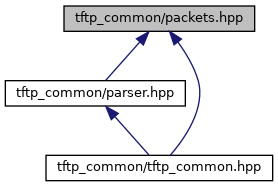
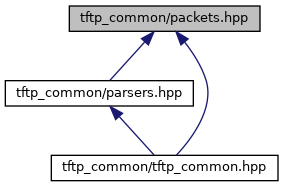
Deploying to gh-pages from @ eoan-ermine/tftp_common@78b0e7c04684e2b29322a0cdcc1f41761ce4d9c7 🚀

diff --git a/packets_8hpp_source.html b/packets_8hpp_source.html
@@ -332,7 +332,7 @@ $(function() {
 <div class="line"><a name="l00305"></a><span class="lineno">  305</span>&#160; </div>
 <div class="line"><a name="l00306"></a><span class="lineno">  306</span>&#160;} <span class="comment">// namespace tftp_common::packets</span></div>
 <div class="ttc" id="aclasstftp__common_1_1packets_1_1Acknowledgment_html"><div class="ttname"><a href="classtftp__common_1_1packets_1_1Acknowledgment.html">tftp_common::packets::Acknowledgment</a></div><div class="ttdoc">Acknowledgment Trivial File Transfer Protocol packet.</div><div class="ttdef"><b>Definition:</b> packets.hpp:178</div></div>
-<div class="ttc" id="aclasstftp__common_1_1packets_1_1Acknowledgment_html_a0fd92310212b34655f177a19877a01e4"><div class="ttname"><a href="classtftp__common_1_1packets_1_1Acknowledgment.html#a0fd92310212b34655f177a19877a01e4">tftp_common::packets::Acknowledgment::parse</a></div><div class="ttdeci">friend ParseResult parse(const std::uint8_t *Buffer, std::size_t Len, Acknowledgment &amp;Packet)</div><div class="ttdef"><b>Definition:</b> parser.hpp:155</div></div>
+<div class="ttc" id="aclasstftp__common_1_1packets_1_1Acknowledgment_html_a0fd92310212b34655f177a19877a01e4"><div class="ttname"><a href="classtftp__common_1_1packets_1_1Acknowledgment.html#a0fd92310212b34655f177a19877a01e4">tftp_common::packets::Acknowledgment::parse</a></div><div class="ttdeci">friend ParseResult parse(const std::uint8_t *Buffer, std::size_t Len, Acknowledgment &amp;Packet)</div><div class="ttdef"><b>Definition:</b> parsers.hpp:155</div></div>
 <div class="ttc" id="aclasstftp__common_1_1packets_1_1Acknowledgment_html_a36230b20c043663a6faa779c1a08565e"><div class="ttname"><a href="classtftp__common_1_1packets_1_1Acknowledgment.html#a36230b20c043663a6faa779c1a08565e">tftp_common::packets::Acknowledgment::getType</a></div><div class="ttdeci">std::uint16_t getType() const noexcept</div><div class="ttdef"><b>Definition:</b> packets.hpp:188</div></div>
 <div class="ttc" id="aclasstftp__common_1_1packets_1_1Acknowledgment_html_a73799540964e4b609154453d89befe77"><div class="ttname"><a href="classtftp__common_1_1packets_1_1Acknowledgment.html#a73799540964e4b609154453d89befe77">tftp_common::packets::Acknowledgment::serialize</a></div><div class="ttdeci">std::size_t serialize(OutputIterator It) const noexcept</div><div class="ttdef"><b>Definition:</b> packets.hpp:195</div></div>
 <div class="ttc" id="aclasstftp__common_1_1packets_1_1Acknowledgment_html_a75fca051298c36ab5eab7920e358036c"><div class="ttname"><a href="classtftp__common_1_1packets_1_1Acknowledgment.html#a75fca051298c36ab5eab7920e358036c">tftp_common::packets::Acknowledgment::Acknowledgment</a></div><div class="ttdeci">Acknowledgment()=default</div><div class="ttdoc">Use with parsing functions only.</div></div>
@@ -345,20 +345,20 @@ $(function() {
 <div class="ttc" id="aclasstftp__common_1_1packets_1_1Data_html_a8af582900335b6ea2136dc8b08df0968"><div class="ttname"><a href="classtftp__common_1_1packets_1_1Data.html#a8af582900335b6ea2136dc8b08df0968">tftp_common::packets::Data::serialize</a></div><div class="ttdeci">std::size_t serialize(OutputIterator It) const noexcept</div><div class="ttdef"><b>Definition:</b> packets.hpp:151</div></div>
 <div class="ttc" id="aclasstftp__common_1_1packets_1_1Data_html_a8f45d8e97f3aa27b5121382ac5155d11"><div class="ttname"><a href="classtftp__common_1_1packets_1_1Data.html#a8f45d8e97f3aa27b5121382ac5155d11">tftp_common::packets::Data::getType</a></div><div class="ttdeci">std::uint16_t getType() const noexcept</div><div class="ttdef"><b>Definition:</b> packets.hpp:163</div></div>
 <div class="ttc" id="aclasstftp__common_1_1packets_1_1Data_html_aee1cb9502fa13dfbd7888c98f6a7aaa7"><div class="ttname"><a href="classtftp__common_1_1packets_1_1Data.html#aee1cb9502fa13dfbd7888c98f6a7aaa7">tftp_common::packets::Data::getData</a></div><div class="ttdeci">const std::vector&lt; std::uint8_t &gt; &amp; getData() const noexcept</div><div class="ttdef"><b>Definition:</b> packets.hpp:167</div></div>
-<div class="ttc" id="aclasstftp__common_1_1packets_1_1Data_html_af4d8e374c13c2b90735fc0d920432a50"><div class="ttname"><a href="classtftp__common_1_1packets_1_1Data.html#af4d8e374c13c2b90735fc0d920432a50">tftp_common::packets::Data::parse</a></div><div class="ttdeci">friend ParseResult parse(const std::uint8_t *Buffer, std::size_t Len, Data &amp;Packet)</div><div class="ttdef"><b>Definition:</b> parser.hpp:100</div></div>
+<div class="ttc" id="aclasstftp__common_1_1packets_1_1Data_html_af4d8e374c13c2b90735fc0d920432a50"><div class="ttname"><a href="classtftp__common_1_1packets_1_1Data.html#af4d8e374c13c2b90735fc0d920432a50">tftp_common::packets::Data::parse</a></div><div class="ttdeci">friend ParseResult parse(const std::uint8_t *Buffer, std::size_t Len, Data &amp;Packet)</div><div class="ttdef"><b>Definition:</b> parsers.hpp:100</div></div>
 <div class="ttc" id="aclasstftp__common_1_1packets_1_1Data_html_afe9284164325798745c8b72bcb84d176"><div class="ttname"><a href="classtftp__common_1_1packets_1_1Data.html#afe9284164325798745c8b72bcb84d176">tftp_common::packets::Data::getBlock</a></div><div class="ttdeci">std::uint16_t getBlock() const noexcept</div><div class="ttdef"><b>Definition:</b> packets.hpp:165</div></div>
 <div class="ttc" id="aclasstftp__common_1_1packets_1_1Error_html"><div class="ttname"><a href="classtftp__common_1_1packets_1_1Error.html">tftp_common::packets::Error</a></div><div class="ttdoc">Error Trivial File Transfer Protocol packet.</div><div class="ttdef"><b>Definition:</b> packets.hpp:212</div></div>
 <div class="ttc" id="aclasstftp__common_1_1packets_1_1Error_html_a10c5ab22536611a6acb382af7011e5f5"><div class="ttname"><a href="classtftp__common_1_1packets_1_1Error.html#a10c5ab22536611a6acb382af7011e5f5">tftp_common::packets::Error::Error</a></div><div class="ttdeci">Error(std::uint16_t ErrorCode, std::string &amp;&amp;ErrorMessage)</div><div class="ttdef"><b>Definition:</b> packets.hpp:221</div></div>
 <div class="ttc" id="aclasstftp__common_1_1packets_1_1Error_html_a13cbb66278877110ebec2060c9b404b9"><div class="ttname"><a href="classtftp__common_1_1packets_1_1Error.html#a13cbb66278877110ebec2060c9b404b9">tftp_common::packets::Error::getErrorMessage</a></div><div class="ttdeci">std::string_view getErrorMessage() const noexcept</div><div class="ttdef"><b>Definition:</b> packets.hpp:230</div></div>
 <div class="ttc" id="aclasstftp__common_1_1packets_1_1Error_html_a2685de06d13b95c4f8869df40fa134b8"><div class="ttname"><a href="classtftp__common_1_1packets_1_1Error.html#a2685de06d13b95c4f8869df40fa134b8">tftp_common::packets::Error::Error</a></div><div class="ttdeci">Error()=default</div><div class="ttdoc">Use with parsing functions only.</div></div>
 <div class="ttc" id="aclasstftp__common_1_1packets_1_1Error_html_a31581a85502e78d503f2adcf98b46a14"><div class="ttname"><a href="classtftp__common_1_1packets_1_1Error.html#a31581a85502e78d503f2adcf98b46a14">tftp_common::packets::Error::getErrorCode</a></div><div class="ttdeci">std::uint16_t getErrorCode() const noexcept</div><div class="ttdef"><b>Definition:</b> packets.hpp:228</div></div>
-<div class="ttc" id="aclasstftp__common_1_1packets_1_1Error_html_a354d8c576057088c706a2486556f79ad"><div class="ttname"><a href="classtftp__common_1_1packets_1_1Error.html#a354d8c576057088c706a2486556f79ad">tftp_common::packets::Error::parse</a></div><div class="ttdeci">friend ParseResult parse(const std::uint8_t *Buffer, std::size_t Len, Error &amp;Packet)</div><div class="ttdef"><b>Definition:</b> parser.hpp:200</div></div>
+<div class="ttc" id="aclasstftp__common_1_1packets_1_1Error_html_a354d8c576057088c706a2486556f79ad"><div class="ttname"><a href="classtftp__common_1_1packets_1_1Error.html#a354d8c576057088c706a2486556f79ad">tftp_common::packets::Error::parse</a></div><div class="ttdeci">friend ParseResult parse(const std::uint8_t *Buffer, std::size_t Len, Error &amp;Packet)</div><div class="ttdef"><b>Definition:</b> parsers.hpp:200</div></div>
 <div class="ttc" id="aclasstftp__common_1_1packets_1_1Error_html_a5ffe4315cc1e5c3c4444fd30f0566b17"><div class="ttname"><a href="classtftp__common_1_1packets_1_1Error.html#a5ffe4315cc1e5c3c4444fd30f0566b17">tftp_common::packets::Error::getType</a></div><div class="ttdeci">std::uint16_t getType() const noexcept</div><div class="ttdef"><b>Definition:</b> packets.hpp:226</div></div>
 <div class="ttc" id="aclasstftp__common_1_1packets_1_1Error_html_af7199b14546117025789a1d5b3b65f81"><div class="ttname"><a href="classtftp__common_1_1packets_1_1Error.html#af7199b14546117025789a1d5b3b65f81">tftp_common::packets::Error::serialize</a></div><div class="ttdeci">std::size_t serialize(OutputIterator It) const noexcept</div><div class="ttdef"><b>Definition:</b> packets.hpp:237</div></div>
 <div class="ttc" id="aclasstftp__common_1_1packets_1_1Error_html_af99e92e8f7a8665d3e6124cccb57fcab"><div class="ttname"><a href="classtftp__common_1_1packets_1_1Error.html#af99e92e8f7a8665d3e6124cccb57fcab">tftp_common::packets::Error::Error</a></div><div class="ttdeci">Error(std::uint16_t ErrorCode, std::string_view ErrorMessage)</div><div class="ttdef"><b>Definition:</b> packets.hpp:217</div></div>
 <div class="ttc" id="aclasstftp__common_1_1packets_1_1OptionAcknowledgment_html"><div class="ttname"><a href="classtftp__common_1_1packets_1_1OptionAcknowledgment.html">tftp_common::packets::OptionAcknowledgment</a></div><div class="ttdoc">Option Acknowledgment Trivial File Transfer Protocol packet.</div><div class="ttdef"><b>Definition:</b> packets.hpp:260</div></div>
 <div class="ttc" id="aclasstftp__common_1_1packets_1_1OptionAcknowledgment_html_a1aa77681a1824f06df28ebf135fd0961"><div class="ttname"><a href="classtftp__common_1_1packets_1_1OptionAcknowledgment.html#a1aa77681a1824f06df28ebf135fd0961">tftp_common::packets::OptionAcknowledgment::getType</a></div><div class="ttdeci">std::uint16_t getType() const noexcept</div><div class="ttdef"><b>Definition:</b> packets.hpp:289</div></div>
-<div class="ttc" id="aclasstftp__common_1_1packets_1_1OptionAcknowledgment_html_a4b667b9f50ad595534e589cd0cdd3943"><div class="ttname"><a href="classtftp__common_1_1packets_1_1OptionAcknowledgment.html#a4b667b9f50ad595534e589cd0cdd3943">tftp_common::packets::OptionAcknowledgment::parse</a></div><div class="ttdeci">friend ParseResult parse(const std::uint8_t *Buffer, std::size_t Len, OptionAcknowledgment &amp;Packet)</div><div class="ttdef"><b>Definition:</b> parser.hpp:254</div></div>
+<div class="ttc" id="aclasstftp__common_1_1packets_1_1OptionAcknowledgment_html_a4b667b9f50ad595534e589cd0cdd3943"><div class="ttname"><a href="classtftp__common_1_1packets_1_1OptionAcknowledgment.html#a4b667b9f50ad595534e589cd0cdd3943">tftp_common::packets::OptionAcknowledgment::parse</a></div><div class="ttdeci">friend ParseResult parse(const std::uint8_t *Buffer, std::size_t Len, OptionAcknowledgment &amp;Packet)</div><div class="ttdef"><b>Definition:</b> parsers.hpp:254</div></div>
 <div class="ttc" id="aclasstftp__common_1_1packets_1_1OptionAcknowledgment_html_a4fe95a362893ae744e6d47975d3a1ac2"><div class="ttname"><a href="classtftp__common_1_1packets_1_1OptionAcknowledgment.html#a4fe95a362893ae744e6d47975d3a1ac2">tftp_common::packets::OptionAcknowledgment::getOptions</a></div><div class="ttdeci">const std::unordered_map&lt; std::string, std::string &gt; &amp; getOptions() const noexcept</div><div class="ttdoc">Get all options.</div><div class="ttdef"><b>Definition:</b> packets.hpp:292</div></div>
 <div class="ttc" id="aclasstftp__common_1_1packets_1_1OptionAcknowledgment_html_a5618a414ed2c85fb0dde38234c5df26b"><div class="ttname"><a href="classtftp__common_1_1packets_1_1OptionAcknowledgment.html#a5618a414ed2c85fb0dde38234c5df26b">tftp_common::packets::OptionAcknowledgment::OptionAcknowledgment</a></div><div class="ttdeci">OptionAcknowledgment(std::unordered_map&lt; std::string, std::string &gt; Options)</div><div class="ttdef"><b>Definition:</b> packets.hpp:264</div></div>
 <div class="ttc" id="aclasstftp__common_1_1packets_1_1OptionAcknowledgment_html_a828ac44c556231a470c0758021522b7a"><div class="ttname"><a href="classtftp__common_1_1packets_1_1OptionAcknowledgment.html#a828ac44c556231a470c0758021522b7a">tftp_common::packets::OptionAcknowledgment::OptionAcknowledgment</a></div><div class="ttdeci">OptionAcknowledgment()=default</div><div class="ttdoc">Use with parsing functions only.</div></div>
@@ -374,7 +374,7 @@ $(function() {
 <div class="ttc" id="aclasstftp__common_1_1packets_1_1Request_html_a8dc8830bb91a6870f4fe17993c9a32b9"><div class="ttname"><a href="classtftp__common_1_1packets_1_1Request.html#a8dc8830bb91a6870f4fe17993c9a32b9">tftp_common::packets::Request::Request</a></div><div class="ttdeci">Request(Type Type, std::string &amp;&amp;Filename, std::string &amp;&amp;Mode) noexcept</div><div class="ttdef"><b>Definition:</b> packets.hpp:46</div></div>
 <div class="ttc" id="aclasstftp__common_1_1packets_1_1Request_html_a9680700170f595256ce942e8380afaff"><div class="ttname"><a href="classtftp__common_1_1packets_1_1Request.html#a9680700170f595256ce942e8380afaff">tftp_common::packets::Request::Request</a></div><div class="ttdeci">Request()=default</div><div class="ttdoc">Use with parsing functions only.</div></div>
 <div class="ttc" id="aclasstftp__common_1_1packets_1_1Request_html_a9988577a032e5e32b0e8e7e4a3dd90be"><div class="ttname"><a href="classtftp__common_1_1packets_1_1Request.html#a9988577a032e5e32b0e8e7e4a3dd90be">tftp_common::packets::Request::getFilename</a></div><div class="ttdeci">std::string_view getFilename() const noexcept</div><div class="ttdef"><b>Definition:</b> packets.hpp:102</div></div>
-<div class="ttc" id="aclasstftp__common_1_1packets_1_1Request_html_ac6091444a537edd2f650143c8e656483"><div class="ttname"><a href="classtftp__common_1_1packets_1_1Request.html#ac6091444a537edd2f650143c8e656483">tftp_common::packets::Request::parse</a></div><div class="ttdeci">friend ParseResult parse(const std::uint8_t *Buffer, std::size_t Len, Request &amp;Packet)</div><div class="ttdef"><b>Definition:</b> parser.hpp:19</div></div>
+<div class="ttc" id="aclasstftp__common_1_1packets_1_1Request_html_ac6091444a537edd2f650143c8e656483"><div class="ttname"><a href="classtftp__common_1_1packets_1_1Request.html#ac6091444a537edd2f650143c8e656483">tftp_common::packets::Request::parse</a></div><div class="ttdeci">friend ParseResult parse(const std::uint8_t *Buffer, std::size_t Len, Request &amp;Packet)</div><div class="ttdef"><b>Definition:</b> parsers.hpp:19</div></div>
 <div class="ttc" id="aclasstftp__common_1_1packets_1_1Request_html_acf78da65a1f87c33db05dbfa02b133cc"><div class="ttname"><a href="classtftp__common_1_1packets_1_1Request.html#acf78da65a1f87c33db05dbfa02b133cc">tftp_common::packets::Request::getMode</a></div><div class="ttdeci">std::string_view getMode() const noexcept</div><div class="ttdef"><b>Definition:</b> packets.hpp:104</div></div>
 <div class="ttc" id="aclasstftp__common_1_1packets_1_1Request_html_afe5ea42c1da395423367c1b31271a1db"><div class="ttname"><a href="classtftp__common_1_1packets_1_1Request.html#afe5ea42c1da395423367c1b31271a1db">tftp_common::packets::Request::getType</a></div><div class="ttdeci">std::uint16_t getType() const noexcept</div><div class="ttdef"><b>Definition:</b> packets.hpp:100</div></div>
 <div class="ttc" id="anamespacetftp__common_1_1packets_html"><div class="ttname"><a href="namespacetftp__common_1_1packets.html">tftp_common::packets</a></div><div class="ttdef"><b>Definition:</b> packets.hpp:16</div></div>
@@ -385,7 +385,7 @@ $(function() {
 <div class="ttc" id="anamespacetftp__common_1_1packets_html_a2b58b8a0fcf82f3a4c69feb5078fea4aabdff55c238fc75b9a540daa002f607ef"><div class="ttname"><a href="namespacetftp__common_1_1packets.html#a2b58b8a0fcf82f3a4c69feb5078fea4aabdff55c238fc75b9a540daa002f607ef">tftp_common::packets::AcknowledgmentPacket</a></div><div class="ttdeci">@ AcknowledgmentPacket</div><div class="ttdoc">Acknowledgment (ACK) operation code.</div><div class="ttdef"><b>Definition:</b> packets.hpp:29</div></div>
 <div class="ttc" id="anamespacetftp__common_1_1packets_html_a2b58b8a0fcf82f3a4c69feb5078fea4aaf3a9a61532c0ad253021dc3b7ec4a311"><div class="ttname"><a href="namespacetftp__common_1_1packets.html#a2b58b8a0fcf82f3a4c69feb5078fea4aaf3a9a61532c0ad253021dc3b7ec4a311">tftp_common::packets::DataPacket</a></div><div class="ttdeci">@ DataPacket</div><div class="ttdoc">Data (DATA) operation code.</div><div class="ttdef"><b>Definition:</b> packets.hpp:27</div></div>
 <div class="ttc" id="anamespacetftp__common_1_1packets_html_a2b58b8a0fcf82f3a4c69feb5078fea4aaf8e8023e4d99c777598afbac87ee3de6"><div class="ttname"><a href="namespacetftp__common_1_1packets.html#a2b58b8a0fcf82f3a4c69feb5078fea4aaf8e8023e4d99c777598afbac87ee3de6">tftp_common::packets::WriteRequest</a></div><div class="ttdeci">@ WriteRequest</div><div class="ttdoc">Write request (WRQ) operation code.</div><div class="ttdef"><b>Definition:</b> packets.hpp:25</div></div>
-<div class="ttc" id="astructtftp__common_1_1packets_1_1ParseResult_html"><div class="ttname"><a href="structtftp__common_1_1packets_1_1ParseResult.html">tftp_common::packets::ParseResult</a></div><div class="ttdoc">The result of parsing a single packet.</div><div class="ttdef"><b>Definition:</b> parser.hpp:8</div></div>
+<div class="ttc" id="astructtftp__common_1_1packets_1_1ParseResult_html"><div class="ttname"><a href="structtftp__common_1_1packets_1_1ParseResult.html">tftp_common::packets::ParseResult</a></div><div class="ttdoc">The result of parsing a single packet.</div><div class="ttdef"><b>Definition:</b> parsers.hpp:8</div></div>
 </div><!-- fragment --></div><!-- contents -->
 <!-- start footer part -->
 <hr class="footer"/><address class="footer"><small>

diff --git a/parsers_8hpp_source.html b/parsers_8hpp_source.html
@@ -5,7 +5,7 @@
 <meta http-equiv="X-UA-Compatible" content="IE=9"/>
 <meta name="generator" content="Doxygen 1.9.1"/>
 <meta name="viewport" content="width=device-width, initial-scale=1"/>
-<title>TFTP Common: tftp_common/parser.hpp Source File</title>
+<title>TFTP Common: tftp_common/parsers.hpp Source File</title>
 <link href="tabs.css" rel="stylesheet" type="text/css"/>
 <script type="text/javascript" src="jquery.js"></script>
 <script type="text/javascript" src="dynsections.js"></script>
@@ -67,10 +67,10 @@ $(function() {
 </div><!-- top -->
 <div class="header">
   <div class="headertitle">
-<div class="title">parser.hpp</div>  </div>
+<div class="title">parsers.hpp</div>  </div>
 </div><!--header-->
 <div class="contents">
-<a href="parser_8hpp.html">Go to the documentation of this file.</a><div class="fragment"><div class="line"><a name="l00001"></a><span class="lineno">    1</span>&#160;<span class="preprocessor">#pragma once</span></div>
+<a href="parsers_8hpp.html">Go to the documentation of this file.</a><div class="fragment"><div class="line"><a name="l00001"></a><span class="lineno">    1</span>&#160;<span class="preprocessor">#pragma once</span></div>
 <div class="line"><a name="l00002"></a><span class="lineno">    2</span>&#160; </div>
 <div class="line"><a name="l00003"></a><span class="lineno">    3</span>&#160;<span class="preprocessor">#include &quot;<a class="code" href="packets_8hpp.html">packets.hpp</a>&quot;</span></div>
 <div class="line"><a name="l00004"></a><span class="lineno">    4</span>&#160; </div>
@@ -370,11 +370,11 @@ $(function() {
 <div class="ttc" id="anamespacetftp__common_1_1packets_html_a2b58b8a0fcf82f3a4c69feb5078fea4aabdff55c238fc75b9a540daa002f607ef"><div class="ttname"><a href="namespacetftp__common_1_1packets.html#a2b58b8a0fcf82f3a4c69feb5078fea4aabdff55c238fc75b9a540daa002f607ef">tftp_common::packets::AcknowledgmentPacket</a></div><div class="ttdeci">@ AcknowledgmentPacket</div><div class="ttdoc">Acknowledgment (ACK) operation code.</div><div class="ttdef"><b>Definition:</b> packets.hpp:29</div></div>
 <div class="ttc" id="anamespacetftp__common_1_1packets_html_a2b58b8a0fcf82f3a4c69feb5078fea4aaf3a9a61532c0ad253021dc3b7ec4a311"><div class="ttname"><a href="namespacetftp__common_1_1packets.html#a2b58b8a0fcf82f3a4c69feb5078fea4aaf3a9a61532c0ad253021dc3b7ec4a311">tftp_common::packets::DataPacket</a></div><div class="ttdeci">@ DataPacket</div><div class="ttdoc">Data (DATA) operation code.</div><div class="ttdef"><b>Definition:</b> packets.hpp:27</div></div>
 <div class="ttc" id="anamespacetftp__common_1_1packets_html_a2b58b8a0fcf82f3a4c69feb5078fea4aaf8e8023e4d99c777598afbac87ee3de6"><div class="ttname"><a href="namespacetftp__common_1_1packets.html#a2b58b8a0fcf82f3a4c69feb5078fea4aaf8e8023e4d99c777598afbac87ee3de6">tftp_common::packets::WriteRequest</a></div><div class="ttdeci">@ WriteRequest</div><div class="ttdoc">Write request (WRQ) operation code.</div><div class="ttdef"><b>Definition:</b> packets.hpp:25</div></div>
-<div class="ttc" id="anamespacetftp__common_1_1packets_html_af429981ce6cb612102dffb39f237c1f9"><div class="ttname"><a href="namespacetftp__common_1_1packets.html#af429981ce6cb612102dffb39f237c1f9">tftp_common::packets::parse</a></div><div class="ttdeci">ParseResult parse(const std::uint8_t *Buffer, std::size_t Len, Request &amp;Packet)</div><div class="ttdef"><b>Definition:</b> parser.hpp:19</div></div>
+<div class="ttc" id="anamespacetftp__common_1_1packets_html_af429981ce6cb612102dffb39f237c1f9"><div class="ttname"><a href="namespacetftp__common_1_1packets.html#af429981ce6cb612102dffb39f237c1f9">tftp_common::packets::parse</a></div><div class="ttdeci">ParseResult parse(const std::uint8_t *Buffer, std::size_t Len, Request &amp;Packet)</div><div class="ttdef"><b>Definition:</b> parsers.hpp:19</div></div>
 <div class="ttc" id="apackets_8hpp_html"><div class="ttname"><a href="packets_8hpp.html">packets.hpp</a></div></div>
-<div class="ttc" id="astructtftp__common_1_1packets_1_1ParseResult_html"><div class="ttname"><a href="structtftp__common_1_1packets_1_1ParseResult.html">tftp_common::packets::ParseResult</a></div><div class="ttdoc">The result of parsing a single packet.</div><div class="ttdef"><b>Definition:</b> parser.hpp:8</div></div>
-<div class="ttc" id="astructtftp__common_1_1packets_1_1ParseResult_html_aa1a6e13627ef751531457a21a9771c9e"><div class="ttname"><a href="structtftp__common_1_1packets_1_1ParseResult.html#aa1a6e13627ef751531457a21a9771c9e">tftp_common::packets::ParseResult::Success</a></div><div class="ttdeci">bool Success</div><div class="ttdoc">if the parsing was successful</div><div class="ttdef"><b>Definition:</b> parser.hpp:10</div></div>
-<div class="ttc" id="astructtftp__common_1_1packets_1_1ParseResult_html_aeee8ea92ab19b71850a9405bb00addef"><div class="ttname"><a href="structtftp__common_1_1packets_1_1ParseResult.html#aeee8ea92ab19b71850a9405bb00addef">tftp_common::packets::ParseResult::BytesRead</a></div><div class="ttdeci">std::size_t BytesRead</div><div class="ttdoc">count of bytes read</div><div class="ttdef"><b>Definition:</b> parser.hpp:12</div></div>
+<div class="ttc" id="astructtftp__common_1_1packets_1_1ParseResult_html"><div class="ttname"><a href="structtftp__common_1_1packets_1_1ParseResult.html">tftp_common::packets::ParseResult</a></div><div class="ttdoc">The result of parsing a single packet.</div><div class="ttdef"><b>Definition:</b> parsers.hpp:8</div></div>
+<div class="ttc" id="astructtftp__common_1_1packets_1_1ParseResult_html_aa1a6e13627ef751531457a21a9771c9e"><div class="ttname"><a href="structtftp__common_1_1packets_1_1ParseResult.html#aa1a6e13627ef751531457a21a9771c9e">tftp_common::packets::ParseResult::Success</a></div><div class="ttdeci">bool Success</div><div class="ttdoc">if the parsing was successful</div><div class="ttdef"><b>Definition:</b> parsers.hpp:10</div></div>
+<div class="ttc" id="astructtftp__common_1_1packets_1_1ParseResult_html_aeee8ea92ab19b71850a9405bb00addef"><div class="ttname"><a href="structtftp__common_1_1packets_1_1ParseResult.html#aeee8ea92ab19b71850a9405bb00addef">tftp_common::packets::ParseResult::BytesRead</a></div><div class="ttdeci">std::size_t BytesRead</div><div class="ttdoc">count of bytes read</div><div class="ttdef"><b>Definition:</b> parsers.hpp:12</div></div>
 </div><!-- fragment --></div><!-- contents -->
 <!-- start footer part -->
 <hr class="footer"/><address class="footer"><small>

diff --git a/parsers_8hpp.html b/parsers_8hpp.html
@@ -5,7 +5,7 @@
 <meta http-equiv="X-UA-Compatible" content="IE=9"/>
 <meta name="generator" content="Doxygen 1.9.1"/>
 <meta name="viewport" content="width=device-width, initial-scale=1"/>
-<title>TFTP Common: tftp_common/parser.hpp File Reference</title>
+<title>TFTP Common: tftp_common/parsers.hpp File Reference</title>
 <link href="tabs.css" rel="stylesheet" type="text/css"/>
 <script type="text/javascript" src="jquery.js"></script>
 <script type="text/javascript" src="dynsections.js"></script>
@@ -71,16 +71,16 @@ $(function() {
 <a href="#namespaces">Namespaces</a> &#124;
 <a href="#func-members">Functions</a>  </div>
   <div class="headertitle">
-<div class="title">parser.hpp File Reference</div>  </div>
+<div class="title">parsers.hpp File Reference</div>  </div>
 </div><!--header-->
 <div class="contents">
 <div class="textblock"><code>#include &quot;<a class="el" href="packets_8hpp_source.html">packets.hpp</a>&quot;</code><br />
 </div><div class="textblock"><div class="dynheader">
-Include dependency graph for parser.hpp:</div>
+Include dependency graph for parsers.hpp:</div>
 <div class="dyncontent">
-<div class="center"><img src="parser_8hpp__incl.png" border="0" usemap="#atftp__common_2parser_8hpp" alt=""/></div>
-<map name="atftp__common_2parser_8hpp" id="atftp__common_2parser_8hpp">
-<area shape="rect" title=" " alt="" coords="245,5,425,32"/>
+<div class="center"><img src="parsers_8hpp__incl.png" border="0" usemap="#atftp__common_2parsers_8hpp" alt=""/></div>
+<map name="atftp__common_2parsers_8hpp" id="atftp__common_2parsers_8hpp">
+<area shape="rect" title=" " alt="" coords="241,5,429,32"/>
 <area shape="rect" href="packets_8hpp.html" title=" " alt="" coords="285,80,385,107"/>
 <area shape="rect" title=" " alt="" coords="5,155,97,181"/>
 <area shape="rect" title=" " alt="" coords="122,155,191,181"/>
@@ -94,14 +94,14 @@ Include dependency graph for parser.hpp:</div>
 </div><div class="textblock"><div class="dynheader">
 This graph shows which files directly or indirectly include this file:</div>
 <div class="dyncontent">
-<div class="center"><img src="parser_8hpp__dep__incl.png" border="0" usemap="#atftp__common_2parser_8hppdep" alt=""/></div>
-<map name="atftp__common_2parser_8hppdep" id="atftp__common_2parser_8hppdep">
-<area shape="rect" title=" " alt="" coords="29,5,209,32"/>
+<div class="center"><img src="parsers_8hpp__dep__incl.png" border="0" usemap="#atftp__common_2parsers_8hppdep" alt=""/></div>
+<map name="atftp__common_2parsers_8hppdep" id="atftp__common_2parsers_8hppdep">
+<area shape="rect" title=" " alt="" coords="25,5,213,32"/>
 <area shape="rect" href="tftp__common_8hpp.html" title=" " alt="" coords="5,80,232,107"/>
 </map>
 </div>
 </div>
-<p><a href="parser_8hpp_source.html">Go to the source code of this file.</a></p>
+<p><a href="parsers_8hpp_source.html">Go to the source code of this file.</a></p>
 <table class="memberdecls">
 <tr class="heading"><td colspan="2"><h2 class="groupheader"><a name="nested-classes"></a>
 Classes</h2></td></tr>

diff --git a/search/all_6.js b/search/all_6.js
@@ -2,6 +2,6 @@ var searchData=
 [
   ['packets_2ehpp_19',['packets.hpp',['../packets_8hpp.html',1,'']]],
   ['parse_20',['parse',['../classtftp__common_1_1packets_1_1Request.html#ac6091444a537edd2f650143c8e656483',1,'tftp_common::packets::Request::parse()'],['../classtftp__common_1_1packets_1_1Data.html#af4d8e374c13c2b90735fc0d920432a50',1,'tftp_common::packets::Data::parse()'],['../classtftp__common_1_1packets_1_1Acknowledgment.html#a0fd92310212b34655f177a19877a01e4',1,'tftp_common::packets::Acknowledgment::parse()'],['../classtftp__common_1_1packets_1_1Error.html#a354d8c576057088c706a2486556f79ad',1,'tftp_common::packets::Error::parse()'],['../classtftp__common_1_1packets_1_1OptionAcknowledgment.html#a4b667b9f50ad595534e589cd0cdd3943',1,'tftp_common::packets::OptionAcknowledgment::parse()'],['../namespacetftp__common_1_1packets.html#af429981ce6cb612102dffb39f237c1f9',1,'tftp_common::packets::parse(const std::uint8_t *Buffer, std::size_t Len, Request &amp;Packet)'],['../namespacetftp__common_1_1packets.html#a1c8053263baa83b7a3817d9b631407d6',1,'tftp_common::packets::parse(const std::uint8_t *Buffer, std::size_t Len, Data &amp;Packet)'],['../namespacetftp__common_1_1packets.html#a83f81d219ad511147dc4433cdbfde129',1,'tftp_common::packets::parse(const std::uint8_t *Buffer, std::size_t Len, Acknowledgment &amp;Packet)'],['../namespacetftp__common_1_1packets.html#ae2c2134e4f933d8e6ea488c3b41a227a',1,'tftp_common::packets::parse(const std::uint8_t *Buffer, std::size_t Len, Error &amp;Packet)'],['../namespacetftp__common_1_1packets.html#ab511d7f3cd14b9c72b8b57a62a4d8cf8',1,'tftp_common::packets::parse(const std::uint8_t *Buffer, std::size_t Len, OptionAcknowledgment &amp;Packet)']]],
-  ['parser_2ehpp_21',['parser.hpp',['../parser_8hpp.html',1,'']]],
-  ['parseresult_22',['ParseResult',['../structtftp__common_1_1packets_1_1ParseResult.html',1,'tftp_common::packets']]]
+  ['parseresult_21',['ParseResult',['../structtftp__common_1_1packets_1_1ParseResult.html',1,'tftp_common::packets']]],
+  ['parsers_2ehpp_22',['parsers.hpp',['../parsers_8hpp.html',1,'']]]
 ];

diff --git a/files.html b/files.html
@@ -70,7 +70,7 @@ $(function() {
 <div class="levels">[detail level <span onclick="javascript:toggleLevel(1);">1</span><span onclick="javascript:toggleLevel(2);">2</span>]</div><table class="directory">
 <tr id="row_0_" class="even"><td class="entry"><span style="width:0px;display:inline-block;">&#160;</span><span id="arr_0_" class="arrow" onclick="toggleFolder('0_')">&#9660;</span><span id="img_0_" class="iconfopen" onclick="toggleFolder('0_')">&#160;</span><a class="el" href="dir_08e0715417ce0e866f8e0838f603d3e9.html" target="_self">tftp_common</a></td><td class="desc"></td></tr>
 <tr id="row_0_0_"><td class="entry"><span style="width:32px;display:inline-block;">&#160;</span><a href="packets_8hpp_source.html"><span class="icondoc"></span></a><a class="el" href="packets_8hpp.html" target="_self">packets.hpp</a></td><td class="desc"></td></tr>
-<tr id="row_0_1_" class="even"><td class="entry"><span style="width:32px;display:inline-block;">&#160;</span><a href="parser_8hpp_source.html"><span class="icondoc"></span></a><a class="el" href="parser_8hpp.html" target="_self">parser.hpp</a></td><td class="desc"></td></tr>
+<tr id="row_0_1_" class="even"><td class="entry"><span style="width:32px;display:inline-block;">&#160;</span><a href="parsers_8hpp_source.html"><span class="icondoc"></span></a><a class="el" href="parsers_8hpp.html" target="_self">parsers.hpp</a></td><td class="desc"></td></tr>
 <tr id="row_0_2_"><td class="entry"><span style="width:32px;display:inline-block;">&#160;</span><a href="tftp__common_8hpp_source.html"><span class="icondoc"></span></a><a class="el" href="tftp__common_8hpp.html" target="_self">tftp_common.hpp</a></td><td class="desc"></td></tr>
 </table>
 </div><!-- directory -->

diff --git a/tftp__common_8hpp_source.html b/tftp__common_8hpp_source.html
@@ -73,9 +73,9 @@ $(function() {
 <a href="tftp__common_8hpp.html">Go to the documentation of this file.</a><div class="fragment"><div class="line"><a name="l00001"></a><span class="lineno">    1</span>&#160;<span class="preprocessor">#pragma once</span></div>
 <div class="line"><a name="l00002"></a><span class="lineno">    2</span>&#160; </div>
 <div class="line"><a name="l00003"></a><span class="lineno">    3</span>&#160;<span class="preprocessor">#include &quot;<a class="code" href="packets_8hpp.html">packets.hpp</a>&quot;</span></div>
-<div class="line"><a name="l00004"></a><span class="lineno">    4</span>&#160;<span class="preprocessor">#include &quot;<a class="code" href="parser_8hpp.html">parser.hpp</a>&quot;</span></div>
+<div class="line"><a name="l00004"></a><span class="lineno">    4</span>&#160;<span class="preprocessor">#include &quot;<a class="code" href="parsers_8hpp.html">parsers.hpp</a>&quot;</span></div>
 <div class="ttc" id="apackets_8hpp_html"><div class="ttname"><a href="packets_8hpp.html">packets.hpp</a></div></div>
-<div class="ttc" id="aparser_8hpp_html"><div class="ttname"><a href="parser_8hpp.html">parser.hpp</a></div></div>
+<div class="ttc" id="aparsers_8hpp_html"><div class="ttname"><a href="parsers_8hpp.html">parsers.hpp</a></div></div>
 </div><!-- fragment --></div><!-- contents -->
 <!-- start footer part -->
 <hr class="footer"/><address class="footer"><small>

diff --git a/dir_08e0715417ce0e866f8e0838f603d3e9.html b/dir_08e0715417ce0e866f8e0838f603d3e9.html
@@ -75,7 +75,7 @@ $(function() {
 Files</h2></td></tr>
 <tr class="memitem:packets_8hpp"><td class="memItemLeft" align="right" valign="top">file &#160;</td><td class="memItemRight" valign="bottom"><a class="el" href="packets_8hpp.html">packets.hpp</a> <a href="packets_8hpp_source.html">[code]</a></td></tr>
 <tr class="separator:"><td class="memSeparator" colspan="2">&#160;</td></tr>
-<tr class="memitem:parser_8hpp"><td class="memItemLeft" align="right" valign="top">file &#160;</td><td class="memItemRight" valign="bottom"><a class="el" href="parser_8hpp.html">parser.hpp</a> <a href="parser_8hpp_source.html">[code]</a></td></tr>
+<tr class="memitem:parsers_8hpp"><td class="memItemLeft" align="right" valign="top">file &#160;</td><td class="memItemRight" valign="bottom"><a class="el" href="parsers_8hpp.html">parsers.hpp</a> <a href="parsers_8hpp_source.html">[code]</a></td></tr>
 <tr class="separator:"><td class="memSeparator" colspan="2">&#160;</td></tr>
 <tr class="memitem:tftp__common_8hpp"><td class="memItemLeft" align="right" valign="top">file &#160;</td><td class="memItemRight" valign="bottom"><a class="el" href="tftp__common_8hpp.html">tftp_common.hpp</a> <a href="tftp__common_8hpp_source.html">[code]</a></td></tr>
 <tr class="separator:"><td class="memSeparator" colspan="2">&#160;</td></tr>

diff --git a/tftp__common_8hpp.html b/tftp__common_8hpp.html
@@ -71,7 +71,7 @@ $(function() {
 </div><!--header-->
 <div class="contents">
 <div class="textblock"><code>#include &quot;<a class="el" href="packets_8hpp_source.html">packets.hpp</a>&quot;</code><br />
-<code>#include &quot;<a class="el" href="parser_8hpp_source.html">parser.hpp</a>&quot;</code><br />
+<code>#include &quot;<a class="el" href="parsers_8hpp_source.html">parsers.hpp</a>&quot;</code><br />
 </div><div class="textblock"><div class="dynheader">
 Include dependency graph for tftp_common.hpp:</div>
 <div class="dyncontent">
@@ -79,7 +79,7 @@ Include dependency graph for tftp_common.hpp:</div>
 <map name="atftp__common_2tftp__common_8hpp" id="atftp__common_2tftp__common_8hpp">
 <area shape="rect" title=" " alt="" coords="222,5,449,32"/>
 <area shape="rect" href="packets_8hpp.html" title=" " alt="" coords="285,155,385,181"/>
-<area shape="rect" href="parser_8hpp.html" title=" " alt="" coords="331,80,422,107"/>
+<area shape="rect" href="parsers_8hpp.html" title=" " alt="" coords="330,80,429,107"/>
 <area shape="rect" title=" " alt="" coords="5,229,97,256"/>
 <area shape="rect" title=" " alt="" coords="122,229,191,256"/>
 <area shape="rect" title=" " alt="" coords="215,229,282,256"/>

diff --git a/structtftp__common_1_1packets_1_1ParseResult.html b/structtftp__common_1_1packets_1_1ParseResult.html
@@ -77,7 +77,7 @@ $(function() {
 <p>The result of parsing a single packet.  
  <a href="structtftp__common_1_1packets_1_1ParseResult.html#details">More...</a></p>
 
-<p><code>#include &lt;<a class="el" href="parser_8hpp_source.html">parser.hpp</a>&gt;</code></p>
+<p><code>#include &lt;<a class="el" href="parsers_8hpp_source.html">parsers.hpp</a>&gt;</code></p>
 <table class="memberdecls">
 <tr class="heading"><td colspan="2"><h2 class="groupheader"><a name="pub-attribs"></a>
 Public Attributes</h2></td></tr>
@@ -124,7 +124,7 @@ Public Attributes</h2></td></tr>
 </div>
 </div>
 <hr/>The documentation for this struct was generated from the following file:<ul>
-<li>tftp_common/<a class="el" href="parser_8hpp_source.html">parser.hpp</a></li>
+<li>tftp_common/<a class="el" href="parsers_8hpp_source.html">parsers.hpp</a></li>
 </ul>
 </div><!-- contents -->
 <!-- start footer part -->

diff --git a/packets_8hpp.html b/packets_8hpp.html
@@ -101,9 +101,9 @@ This graph shows which files directly or indirectly include this file:</div>
 <div class="dyncontent">
 <div class="center"><img src="packets_8hpp__dep__incl.png" border="0" usemap="#atftp__common_2packets_8hppdep" alt=""/></div>
 <map name="atftp__common_2packets_8hppdep" id="atftp__common_2packets_8hppdep">
-<area shape="rect" title=" " alt="" coords="64,5,255,32"/>
-<area shape="rect" href="parser_8hpp.html" title=" " alt="" coords="5,80,185,107"/>
-<area shape="rect" href="tftp__common_8hpp.html" title=" " alt="" coords="46,155,273,181"/>
+<area shape="rect" title=" " alt="" coords="69,5,260,32"/>
+<area shape="rect" href="parsers_8hpp.html" title=" " alt="" coords="5,80,193,107"/>
+<area shape="rect" href="tftp__common_8hpp.html" title=" " alt="" coords="51,155,278,181"/>
 </map>
 </div>
 </div>

diff --git a/search/files_0.js b/search/files_0.js
@@ -1,5 +1,5 @@
 var searchData=
 [
   ['packets_2ehpp_42',['packets.hpp',['../packets_8hpp.html',1,'']]],
-  ['parser_2ehpp_43',['parser.hpp',['../parser_8hpp.html',1,'']]]
+  ['parsers_2ehpp_43',['parsers.hpp',['../parsers_8hpp.html',1,'']]]
 ];
